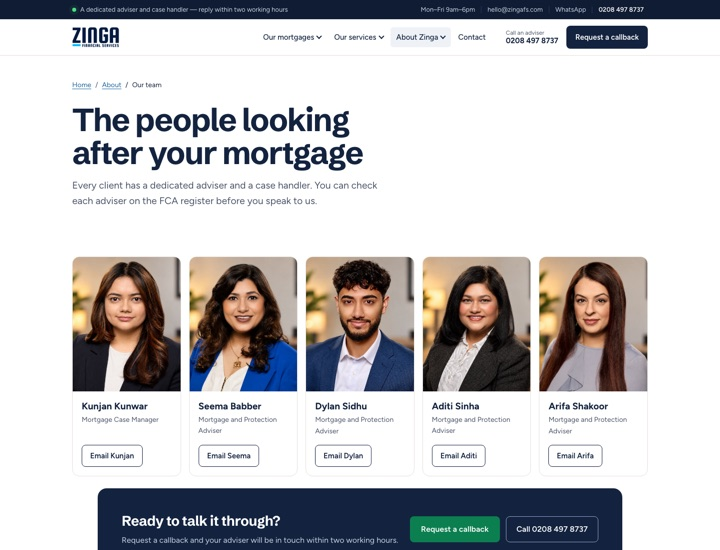
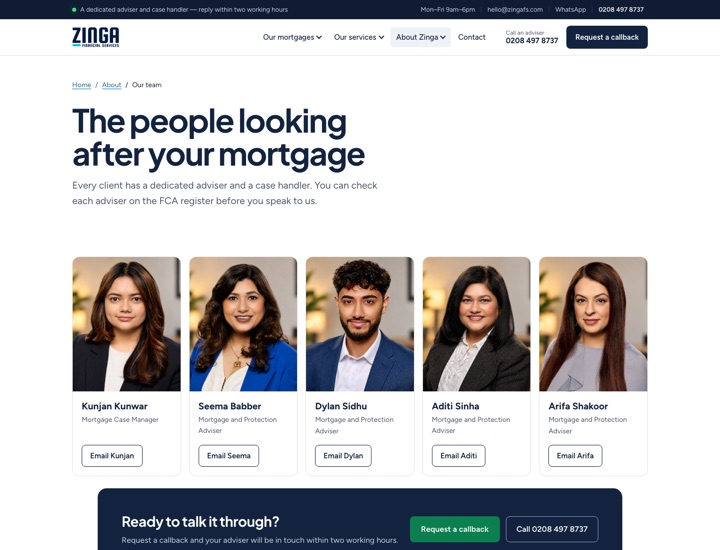
Plus Jakarta Sans chosen: set as the font, tighter closing full stops

Changed region(s): [[0.0917, 0.1855, 0.5194, 0.3091], [0.1528, 0.9273, 0.3972, 0.9582]]

diff --git a/index.html b/index.html
@@ -64,10 +64,10 @@
 <main>
   <div class="wrap">
     <p class="eyebrow">Website redesign</p>
-    <h1>Option C: choose a heading font</h1>
-    <p class="lede">You chose option C, the photo behind the menu. The last step is the font for the big headings: here is the full homepage in five fonts. Both work on desktop and mobile; only the homepage is included, and the enquiry form doesn't send anything.</p>
+    <h1>Option C with Plus Jakarta Sans</h1>
+    <p class="lede">You chose option C, the photo behind the menu, and Plus Jakarta Sans for the headings (18 Oct). It's now the site's font everywhere, including the team page. The other fonts are kept below for reference. Both work on desktop and mobile; only the homepage is included, and the enquiry form doesn't send anything.</p>
     <section class="fonts-pick">
-      <h3 class="pick-h">Option C in five heading fonts</h3>
+      <h3 class="pick-h">Option C in five heading fonts (2 chosen)</h3>
       <p class="pick-lede">Your chosen design, as a full homepage in each font. Only the headings change; open each one on your phone too. Tell us the number you prefer.</p>
       <div class="grid three">
       <a class="card" href="option-c/schibsted/">
@@ -82,7 +82,7 @@
       <a class="card" href="option-c/jakarta/">
         <div class="thumb"><img src="thumb-c-jakarta.jpg" alt="Option C homepage with Plus Jakarta Sans headings" width="720" height="550" loading="lazy"></div>
         <div class="body">
-          <span class="tag new">Our pick</span>
+          <span class="tag new">Chosen · 18 Oct</span>
           <h2>2. Plus Jakarta Sans</h2>
           <p>Modern and confident, with open, rounded letters; popular with finance brands.</p>
           <span class="go">View the full homepage →</span>

diff --git a/team/index.html b/team/index.html
@@ -1,5 +1,5 @@
 <!DOCTYPE html>
-<html lang="en-GB" class="hf-schibsted">
+<html lang="en-GB" class="hf-jakarta">
 <head>
 <meta name="robots" content="noindex, nofollow">
 <meta charset="utf-8">
@@ -20,7 +20,7 @@
 <link rel="icon" href="images/zinga-logo.png">
 <link rel="preconnect" href="https://fonts.googleapis.com">
 <link rel="preconnect" href="https://fonts.gstatic.com" crossorigin>
-<link href="https://fonts.googleapis.com/css2?family=Figtree:wght@400;500;600;700;800&amp;family=Schibsted+Grotesk:wght@600;700;800&amp;display=swap" rel="stylesheet">
+<link href="https://fonts.googleapis.com/css2?family=Figtree:wght@400;500;600;700;800&amp;family=Plus+Jakarta+Sans:wght@600;700;800&amp;display=swap" rel="stylesheet">
 <link rel="stylesheet" href="css/site.css">
 <script src="js/site.js" defer></script>
 </head>
@@ -399,7 +399,7 @@
         <div class="hp-field" aria-hidden="true">
             <label>Leave this field empty <input type="text" name="website" tabindex="-1" autocomplete="off"></label>
         </div>
[2 lines of base64/hex data omitted]
 
         <label class="check">
             <input type="checkbox" name="consent" value="1" >

diff --git a/option-c/dm-sans/js/site.js b/option-c/dm-sans/js/site.js
@@ -93,6 +93,23 @@
     if (isMenuOpen && drawer && isMenuOpen()) { setMenu(false); }
   });
 
+  // ---- Plus Jakarta Sans: tuck in a heading's closing full stop / ? / ! (see .hd-punct in site.css) ----
+  if (document.documentElement.classList.contains('hf-jakarta')) {
+    document.querySelectorAll('.hp-h1-line, .hp-h1-soft, .hp-h2, .ih-h1, main h1, main h2').forEach(function (h) {
+      var walker = document.createTreeWalker(h, NodeFilter.SHOW_TEXT), node, last = null;
+      while ((node = walker.nextNode())) { if (node.nodeValue.trim()) last = node; }
+      if (!last || last.parentNode.classList.contains('hd-punct')) return;
+      var m = last.nodeValue.match(/^([\s\S]*\S)([.!?])(\s*)$/);
+      if (!m) return;
+      var dot = document.createElement('span');
+      dot.className = 'hd-punct';
+      dot.textContent = m[2];
+      last.nodeValue = m[1];
+      last.parentNode.insertBefore(dot, last.nextSibling);
+      if (m[3]) last.parentNode.insertBefore(document.createTextNode(m[3]), dot.nextSibling);
+    });
+  }
+
   // ---- Team "Email [name]" contact box (client, 13 Oct) -----------------------
   // Links with data-team-email open the box for that person; without <dialog> support they go to the contact page.
   var tc = document.querySelector('[data-team-dialog]');

diff --git a/option-c/figtree/js/site.js b/option-c/figtree/js/site.js
@@ -93,6 +93,23 @@
     if (isMenuOpen && drawer && isMenuOpen()) { setMenu(false); }
   });
 
+  // ---- Plus Jakarta Sans: tuck in a heading's closing full stop / ? / ! (see .hd-punct in site.css) ----
+  if (document.documentElement.classList.contains('hf-jakarta')) {
+    document.querySelectorAll('.hp-h1-line, .hp-h1-soft, .hp-h2, .ih-h1, main h1, main h2').forEach(function (h) {
+      var walker = document.createTreeWalker(h, NodeFilter.SHOW_TEXT), node, last = null;
+      while ((node = walker.nextNode())) { if (node.nodeValue.trim()) last = node; }
+      if (!last || last.parentNode.classList.contains('hd-punct')) return;
+      var m = last.nodeValue.match(/^([\s\S]*\S)([.!?])(\s*)$/);
+      if (!m) return;
+      var dot = document.createElement('span');
+      dot.className = 'hd-punct';
+      dot.textContent = m[2];
+      last.nodeValue = m[1];
+      last.parentNode.insertBefore(dot, last.nextSibling);
+      if (m[3]) last.parentNode.insertBefore(document.createTextNode(m[3]), dot.nextSibling);
+    });
+  }
+
   // ---- Team "Email [name]" contact box (client, 13 Oct) -----------------------
   // Links with data-team-email open the box for that person; without <dialog> support they go to the contact page.
   var tc = document.querySelector('[data-team-dialog]');

diff --git a/option-c/jakarta/js/site.js b/option-c/jakarta/js/site.js
@@ -93,6 +93,23 @@
     if (isMenuOpen && drawer && isMenuOpen()) { setMenu(false); }
   });
 
+  // ---- Plus Jakarta Sans: tuck in a heading's closing full stop / ? / ! (see .hd-punct in site.css) ----
+  if (document.documentElement.classList.contains('hf-jakarta')) {
+    document.querySelectorAll('.hp-h1-line, .hp-h1-soft, .hp-h2, .ih-h1, main h1, main h2').forEach(function (h) {
+      var walker = document.createTreeWalker(h, NodeFilter.SHOW_TEXT), node, last = null;
+      while ((node = walker.nextNode())) { if (node.nodeValue.trim()) last = node; }
+      if (!last || last.parentNode.classList.contains('hd-punct')) return;
+      var m = last.nodeValue.match(/^([\s\S]*\S)([.!?])(\s*)$/);
+      if (!m) return;
+      var dot = document.createElement('span');
+      dot.className = 'hd-punct';
+      dot.textContent = m[2];
+      last.nodeValue = m[1];
+      last.parentNode.insertBefore(dot, last.nextSibling);
+      if (m[3]) last.parentNode.insertBefore(document.createTextNode(m[3]), dot.nextSibling);
+    });
+  }
+
   // ---- Team "Email [name]" contact box (client, 13 Oct) -----------------------
   // Links with data-team-email open the box for that person; without <dialog> support they go to the contact page.
   var tc = document.querySelector('[data-team-dialog]');

diff --git a/option-c/manrope/js/site.js b/option-c/manrope/js/site.js
@@ -93,6 +93,23 @@
     if (isMenuOpen && drawer && isMenuOpen()) { setMenu(false); }
   });
 
+  // ---- Plus Jakarta Sans: tuck in a heading's closing full stop / ? / ! (see .hd-punct in site.css) ----
+  if (document.documentElement.classList.contains('hf-jakarta')) {
+    document.querySelectorAll('.hp-h1-line, .hp-h1-soft, .hp-h2, .ih-h1, main h1, main h2').forEach(function (h) {
+      var walker = document.createTreeWalker(h, NodeFilter.SHOW_TEXT), node, last = null;
+      while ((node = walker.nextNode())) { if (node.nodeValue.trim()) last = node; }
+      if (!last || last.parentNode.classList.contains('hd-punct')) return;
+      var m = last.nodeValue.match(/^([\s\S]*\S)([.!?])(\s*)$/);
+      if (!m) return;
+      var dot = document.createElement('span');
+      dot.className = 'hd-punct';
+      dot.textContent = m[2];
+      last.nodeValue = m[1];
+      last.parentNode.insertBefore(dot, last.nextSibling);
+      if (m[3]) last.parentNode.insertBefore(document.createTextNode(m[3]), dot.nextSibling);
+    });
+  }
+
   // ---- Team "Email [name]" contact box (client, 13 Oct) -----------------------
   // Links with data-team-email open the box for that person; without <dialog> support they go to the contact page.
   var tc = document.querySelector('[data-team-dialog]');

diff --git a/option-c/schibsted/js/site.js b/option-c/schibsted/js/site.js
@@ -93,6 +93,23 @@
     if (isMenuOpen && drawer && isMenuOpen()) { setMenu(false); }
   });
 
+  // ---- Plus Jakarta Sans: tuck in a heading's closing full stop / ? / ! (see .hd-punct in site.css) ----
+  if (document.documentElement.classList.contains('hf-jakarta')) {
+    document.querySelectorAll('.hp-h1-line, .hp-h1-soft, .hp-h2, .ih-h1, main h1, main h2').forEach(function (h) {
+      var walker = document.createTreeWalker(h, NodeFilter.SHOW_TEXT), node, last = null;
+      while ((node = walker.nextNode())) { if (node.nodeValue.trim()) last = node; }
+      if (!last || last.parentNode.classList.contains('hd-punct')) return;
+      var m = last.nodeValue.match(/^([\s\S]*\S)([.!?])(\s*)$/);
+      if (!m) return;
+      var dot = document.createElement('span');
+      dot.className = 'hd-punct';
+      dot.textContent = m[2];
+      last.nodeValue = m[1];
+      last.parentNode.insertBefore(dot, last.nextSibling);
+      if (m[3]) last.parentNode.insertBefore(document.createTextNode(m[3]), dot.nextSibling);
+    });
+  }
+
   // ---- Team "Email [name]" contact box (client, 13 Oct) -----------------------
   // Links with data-team-email open the box for that person; without <dialog> support they go to the contact page.
   var tc = document.querySelector('[data-team-dialog]');

diff --git a/team/js/site.js b/team/js/site.js
@@ -93,6 +93,23 @@
     if (isMenuOpen && drawer && isMenuOpen()) { setMenu(false); }
   });
 
+  // ---- Plus Jakarta Sans: tuck in a heading's closing full stop / ? / ! (see .hd-punct in site.css) ----
+  if (document.documentElement.classList.contains('hf-jakarta')) {
+    document.querySelectorAll('.hp-h1-line, .hp-h1-soft, .hp-h2, .ih-h1, main h1, main h2').forEach(function (h) {
+      var walker = document.createTreeWalker(h, NodeFilter.SHOW_TEXT), node, last = null;
+      while ((node = walker.nextNode())) { if (node.nodeValue.trim()) last = node; }
+      if (!last || last.parentNode.classList.contains('hd-punct')) return;
+      var m = last.nodeValue.match(/^([\s\S]*\S)([.!?])(\s*)$/);
+      if (!m) return;
+      var dot = document.createElement('span');
+      dot.className = 'hd-punct';
+      dot.textContent = m[2];
+      last.nodeValue = m[1];
+      last.parentNode.insertBefore(dot, last.nextSibling);
+      if (m[3]) last.parentNode.insertBefore(document.createTextNode(m[3]), dot.nextSibling);
+    });
+  }
+
   // ---- Team "Email [name]" contact box (client, 13 Oct) -----------------------
   // Links with data-team-email open the box for that person; without <dialog> support they go to the contact page.
   var tc = document.querySelector('[data-team-dialog]');

diff --git a/option-c/dm-sans/css/site.css b/option-c/dm-sans/css/site.css
@@ -1010,6 +1010,9 @@ html.hf-figtree { --hp-display: 'Figtree', system-ui, sans-serif; }
 html:not(.hf-schibsted) .hp-hero-solo .hp-h1 { line-height: 1.04; letter-spacing: -.03em; }
 html.hf-jakarta .hp-hero-solo .hp-h1, html.hf-manrope .hp-hero-solo .hp-h1, html.hf-figtree .hp-hero-solo .hp-h1 { font-weight: 800; }
 html:not(.hf-schibsted) .hp-h1-soft { letter-spacing: -.02em; }
+/* Plus Jakarta Sans leaves a wide gap before a full stop at display sizes ("purpose ."): site.js wraps a heading's
+   closing punctuation in .hd-punct and this pulls it back to match the other fonts (0.16em gap → about 0.09em). */
+html.hf-jakarta .hd-punct { margin-left: -.07em; }
 .hp-h1-soft { display: block; margin-top: .26em; font-size: max(.44em, 25px); font-weight: 600; line-height: 1.12; letter-spacing: -.025em; color: #3b5578; }
 .hp-hero-dark .hp-h1-soft { color: #00baff; } /* the blue of the bar under the Z in the logo (client, 13 Oct) */
 .hp-hero-solo .hp-cta-row, .hp-hero-solo .hp-ticks, .hp-hero-solo .hp-badges, .hp-hero-solo .hp-trust-row { justify-content: center; }

diff --git a/option-c/figtree/css/site.css b/option-c/figtree/css/site.css
@@ -1010,6 +1010,9 @@ html.hf-figtree { --hp-display: 'Figtree', system-ui, sans-serif; }
 html:not(.hf-schibsted) .hp-hero-solo .hp-h1 { line-height: 1.04; letter-spacing: -.03em; }
 html.hf-jakarta .hp-hero-solo .hp-h1, html.hf-manrope .hp-hero-solo .hp-h1, html.hf-figtree .hp-hero-solo .hp-h1 { font-weight: 800; }
 html:not(.hf-schibsted) .hp-h1-soft { letter-spacing: -.02em; }
+/* Plus Jakarta Sans leaves a wide gap before a full stop at display sizes ("purpose ."): site.js wraps a heading's
+   closing punctuation in .hd-punct and this pulls it back to match the other fonts (0.16em gap → about 0.09em). */
+html.hf-jakarta .hd-punct { margin-left: -.07em; }
 .hp-h1-soft { display: block; margin-top: .26em; font-size: max(.44em, 25px); font-weight: 600; line-height: 1.12; letter-spacing: -.025em; color: #3b5578; }
 .hp-hero-dark .hp-h1-soft { color: #00baff; } /* the blue of the bar under the Z in the logo (client, 13 Oct) */
 .hp-hero-solo .hp-cta-row, .hp-hero-solo .hp-ticks, .hp-hero-solo .hp-badges, .hp-hero-solo .hp-trust-row { justify-content: center; }

diff --git a/option-c/jakarta/css/site.css b/option-c/jakarta/css/site.css
@@ -1010,6 +1010,9 @@ html.hf-figtree { --hp-display: 'Figtree', system-ui, sans-serif; }
 html:not(.hf-schibsted) .hp-hero-solo .hp-h1 { line-height: 1.04; letter-spacing: -.03em; }
 html.hf-jakarta .hp-hero-solo .hp-h1, html.hf-manrope .hp-hero-solo .hp-h1, html.hf-figtree .hp-hero-solo .hp-h1 { font-weight: 800; }
 html:not(.hf-schibsted) .hp-h1-soft { letter-spacing: -.02em; }
+/* Plus Jakarta Sans leaves a wide gap before a full stop at display sizes ("purpose ."): site.js wraps a heading's
+   closing punctuation in .hd-punct and this pulls it back to match the other fonts (0.16em gap → about 0.09em). */
+html.hf-jakarta .hd-punct { margin-left: -.07em; }
 .hp-h1-soft { display: block; margin-top: .26em; font-size: max(.44em, 25px); font-weight: 600; line-height: 1.12; letter-spacing: -.025em; color: #3b5578; }
 .hp-hero-dark .hp-h1-soft { color: #00baff; } /* the blue of the bar under the Z in the logo (client, 13 Oct) */
 .hp-hero-solo .hp-cta-row, .hp-hero-solo .hp-ticks, .hp-hero-solo .hp-badges, .hp-hero-solo .hp-trust-row { justify-content: center; }

diff --git a/option-c/manrope/css/site.css b/option-c/manrope/css/site.css
@@ -1010,6 +1010,9 @@ html.hf-figtree { --hp-display: 'Figtree', system-ui, sans-serif; }
 html:not(.hf-schibsted) .hp-hero-solo .hp-h1 { line-height: 1.04; letter-spacing: -.03em; }
 html.hf-jakarta .hp-hero-solo .hp-h1, html.hf-manrope .hp-hero-solo .hp-h1, html.hf-figtree .hp-hero-solo .hp-h1 { font-weight: 800; }
 html:not(.hf-schibsted) .hp-h1-soft { letter-spacing: -.02em; }
+/* Plus Jakarta Sans leaves a wide gap before a full stop at display sizes ("purpose ."): site.js wraps a heading's
+   closing punctuation in .hd-punct and this pulls it back to match the other fonts (0.16em gap → about 0.09em). */
+html.hf-jakarta .hd-punct { margin-left: -.07em; }
 .hp-h1-soft { display: block; margin-top: .26em; font-size: max(.44em, 25px); font-weight: 600; line-height: 1.12; letter-spacing: -.025em; color: #3b5578; }
 .hp-hero-dark .hp-h1-soft { color: #00baff; } /* the blue of the bar under the Z in the logo (client, 13 Oct) */
 .hp-hero-solo .hp-cta-row, .hp-hero-solo .hp-ticks, .hp-hero-solo .hp-badges, .hp-hero-solo .hp-trust-row { justify-content: center; }
